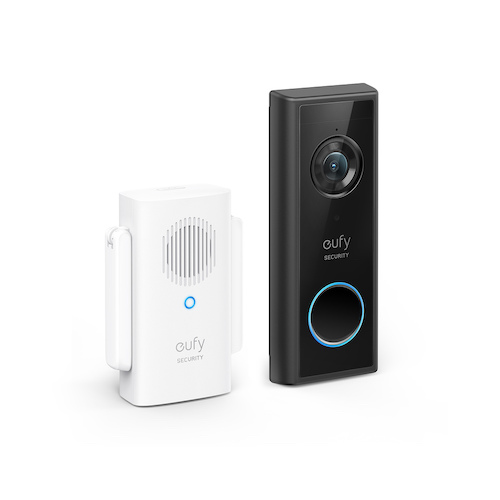
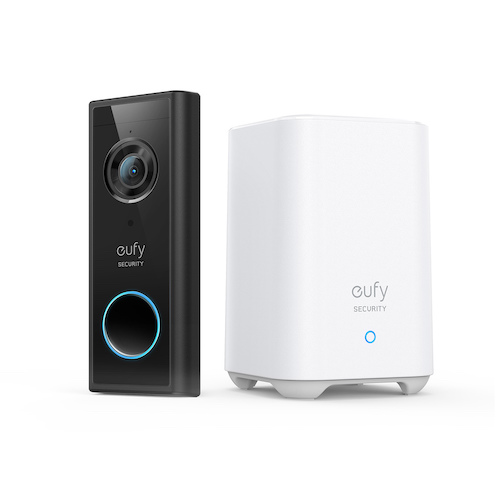
NEW: add Homebase-Chime for Battery Doorbell Slim

diff --git a/constants/device_types.js b/constants/device_types.js
@@ -9,13 +9,14 @@ exports.DEVICE_TYPES = {
     FLOODLIGHT_CAMERA: ['T8420', 'T8422', 'T8424'],
     HOMEBASE_1: ['T8001','T8002'],
     HOMEBASE_2: ['T8010'],
+    HOMEBASE_CHIME: ['T8020'],
     INDOOR_CAM: ['T8400', 'T8401'],
     INDOOR_CAM_PAN_TILT: ['T8410', 'T8411'],
     OUTDOOR_CAM: ['T8441', 'T8442'],
     OUTDOOR_CAM_PRO: ['T8441', 'T8442'],
     MOTION_SENSOR: ['T8910'],
     OTHER: ['UNKNOWN'],
-    VIDEO_DOORBELL_1080P_POWERED: ['T8221'],
+    VIDEO_DOORBELL_1080P_POWERED: ['T8020', 'T8221'],
     VIDEO_DOORBELL_1080P_BATTERY: ['T8220', 'T8222'],
     VIDEO_DOORBELL_2K_BATTERY: ['T8210'],
     VIDEO_DOORBELL_2K_POWERED: ['T8200', 'T8202'],

diff --git a/drivers/driver_HOMEBASE_CHIME/driver.js b/drivers/driver_HOMEBASE_CHIME/driver.js
@@ -1,0 +1,8 @@
+const mainHubDriver = require('../main-hub-driver');
+const { DEVICE_TYPES } = require('../../../constants/device_types');
+
+module.exports = class driver_HOMEBASE_CHIME extends mainHubDriver {
+    deviceType() {
+        return DEVICE_TYPES.HOMEBASE_CHIME
+    }
+}

diff --git a/drivers/driver_HOMEBASE_CHIME/device.js b/drivers/driver_HOMEBASE_CHIME/device.js
@@ -1,0 +1,6 @@
+const mainHub = require('../main-hub');
+
+module.exports = class device_HOMEBASE_CHIME extends mainHub {
+
+	
+}
